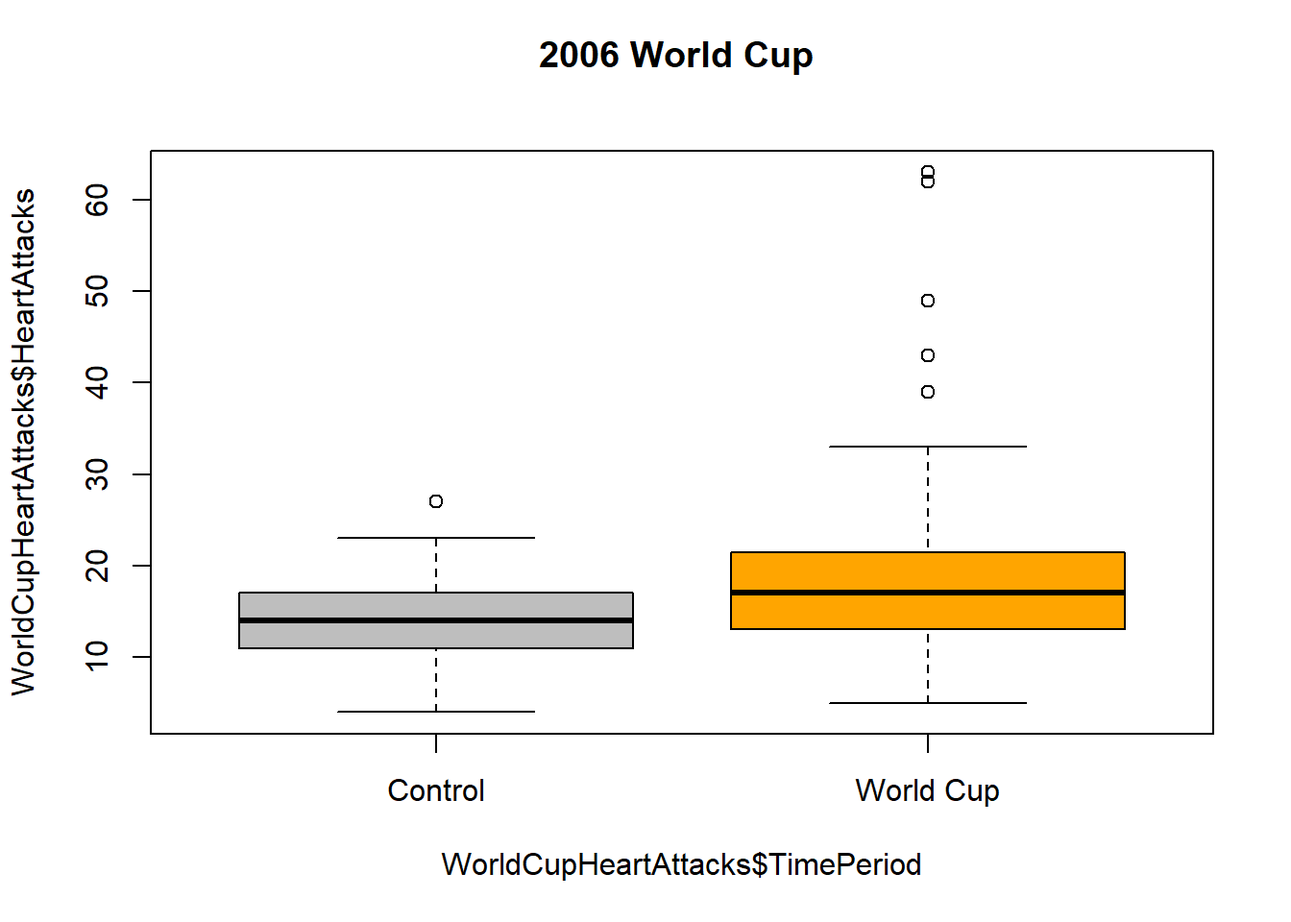
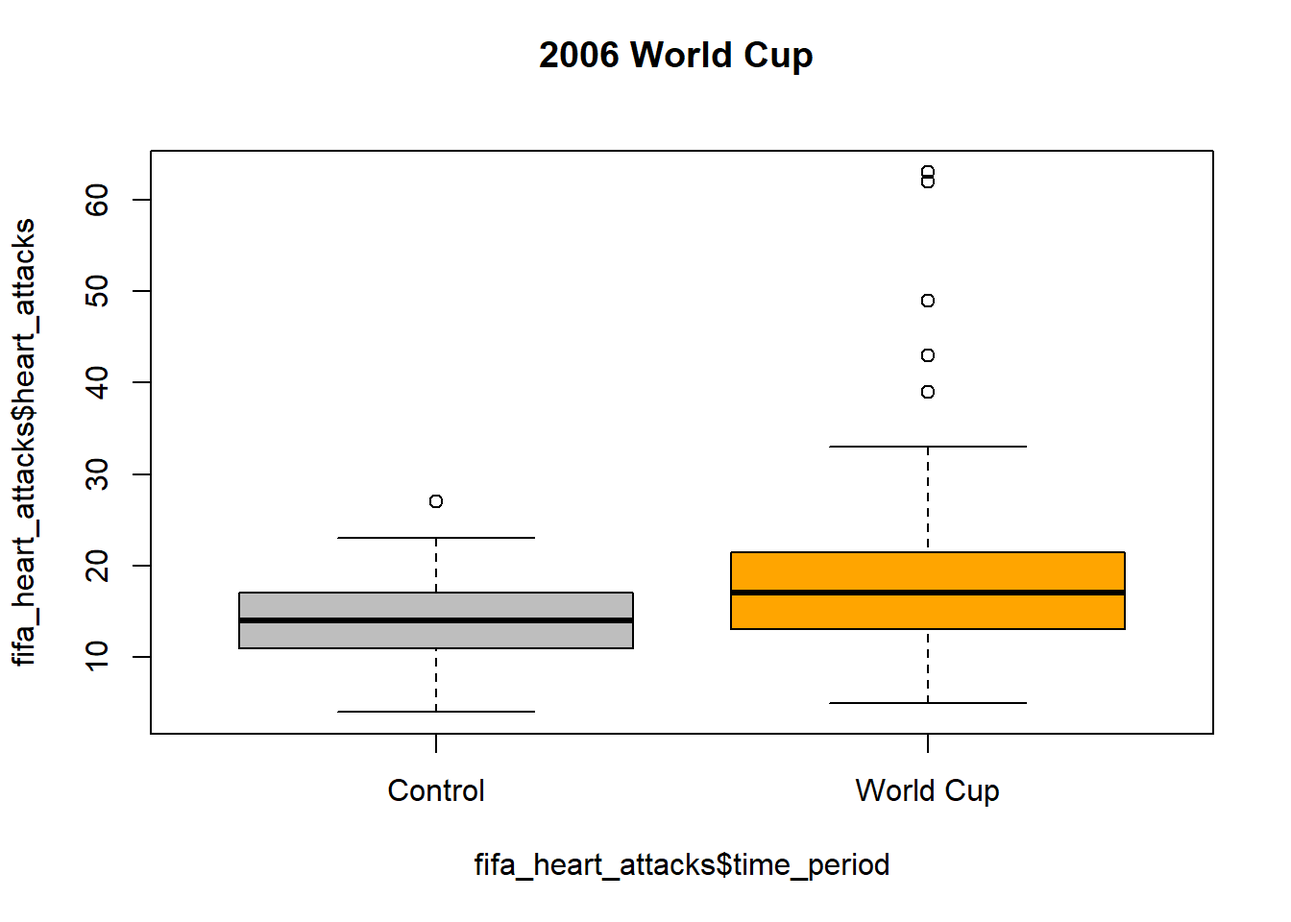
Revised Lesson 13

Changed region(s): [[0.3438, 0.9062, 0.7188, 0.9688], [0.0, 0.1875, 0.0312, 0.75]]

diff --git a/docs/Lesson13.html b/docs/Lesson13.html
@@ -387,7 +387,7 @@ $(document).ready(function () {
 <li><a href="#r-instructions-for-numerical-summaries-of-two-groups">R Instructions for Numerical Summaries of Two Groups</a></li>
 <li><a href="#r-instructions-for-side-by-side-boxplots">R Instructions for Side-by-Side Boxplots</a></li>
 <li><a href="#r-instructions-for-an-independent-samples-t-test">R Instructions for an Independent Samples t Test</a></li>
-<li><a href="#case-study-world-cup-heart-attacks">Case Study: World Cup Heart Attacks</a></li>
+<li><a href="#case-study-fifa-world-cup-heart-attacks">Case Study: FIFA World Cup Heart Attacks</a></li>
 </ul></li>
 <li><a href="#confidence-intervals">Confidence Intervals</a>
 <ul>
@@ -457,7 +457,7 @@ $(document).ready(function () {
 <p>Is there a difference in the amount of reading done by children with problematic behavior compared to other children?</p>
 <p><img src="Images/Step1.png"></p>
 <p><strong>Summarize the relevant background information</strong></p>
-<p>Researchers led by Arlene Butz published a study on the reading practices of children <!--<cite>Butz09</cite>-->. They wanted to know if there was a difference in the reading practices of children with developmental or behavioral problems (the DEV group or Group 1) compared to children in the general population who do not have developmental problems (the GEN group or Group 2.) One of the factors they considered was the number of nights each week that the children participated in reading in the home. Data representative of their results are given in the file <a href="./data/ReadingPractices.xlsx">ReadingPractices.xlsx</a>.</p>
+<p>Researchers led by Arlene Butz published a study on the reading practices of children <!--<cite>Butz09</cite>-->. They wanted to know if there was a difference in the reading practices of children with developmental or behavioral problems (the DEV group or Group 1) compared to children in the general population who do not have developmental problems (the GEN group or Group 2.) One of the factors they considered was the number of nights each week that the children participated in reading in the home. Data representative of their results are given in the file <a href="./data/reading.xlsx">reading.xlsx</a>.</p>
 <p><strong>State the null and alternative hypotheses and the level of significance</strong></p>
 <p>The null hypothesis is that there is no difference in the mean number of nights each week in which the two groups of children participate in reading in the home (the means of both GEN and DEV groups are equal). The alternative hypothesis is that there is a difference in the mean number of nights that the children in the two groups participate in reading in the home. If we let <span class="math inline">\(\mu_1\)</span> represent the mean number of nights each week that children in the GEN Group spent reading in the home, and <span class="math inline">\(\mu_2\)</span> represent mean nights children read in the home for the DEV Group, then these hypotheses are expressed mathematically as: <span class="math display">\[
 \begin{align}
@@ -468,7 +468,7 @@ H_a: &amp;~~  \mu_1  \neq \mu_2
 <p>We will use the <span class="math inline">\(\alpha = 0.05\)</span> level of significance.</p>
 <p><img src="Images/Step2.png"></p>
 <p><strong>Describe the data collection procedures</strong></p>
-<p>A group of children were enrolled in the study. Children who were identified to have developmental or behavioral problems were labeled as Group 1 (the DEV group). Children who did not display developmental or behavioral problems were labeled as Group 2 (the GEN group). A survey was administered to a parent of each of the children. One of the questions on the survey asked the number of nights that either their child read or that they read to their child during the week. This data is found in the file <a href="./data/ReadingPractices.xlsx">ReadingPractices.xlsx</a>.</p>
+<p>A group of children were enrolled in the study. Children who were identified to have developmental or behavioral problems were labeled as Group 1 (the DEV group). Children who did not display developmental or behavioral problems were labeled as Group 2 (the GEN group). A survey was administered to a parent of each of the children. One of the questions on the survey asked the number of nights that either their child read or that they read to their child during the week. This data is found in the file <a href="./data/reading.xlsx">reading.xlsx</a>.</p>
 <div class="QuestionsHeading">
 Answer the following questions:
 </div>
@@ -508,7 +508,7 @@ R Instructions
 <div class="Software">
 <p><strong>To compute numerical summaries for two groups at once:</strong></p>
 <ul>
-<li><p>First, read the data into RStudio: <a href="./data/ReadingPractices.xlsx">ReadingPractices.xlsx</a>. (Review of <a href="RHelp.html#reading-in-the-data">reading in data</a>.)</p></li>
+<li><p>First, read the data into RStudio: <a href="./data/reading.xlsx">reading.xlsx</a>. (Review of <a href="RHelp.html#reading-in-the-data">reading in data</a>.)</p></li>
 <li><p>Second, load the <code>mosaic</code> library in RStudio that makes calculating the numerical summaries for two groups really quick.</p></li>
 </ul>
 <pre class="r"><code>library(mosaic)</code></pre>
@@ -517,12 +517,12 @@ R Instructions
 <p>You’ll only ever need to “install” this package once. But you’ll need to run “library(mosaic)” every time you reopen RStudio and want to use the <code>mosaic</code> package. As long as you keep RStudio open, you won’t have to re-load the mosaic library.</p>
 </div>
 <p>Use the <code>favstats(...)</code> function and the tilde <code>~</code> (top-left key on your keyboard) to produce numerical summaries for two or more groups. When using the <code>~</code> you put the quantitative variable first, followed by the <code>~</code>, then the categorical variable second, like this:</p>
-<pre class="r"><code>favstats(ReadingPractices$Nights ~ ReadingPractices$Group)</code></pre>
-<pre><code>  ReadingPractices$Group min Q1 median Q3 max     mean       sd   n missing
-1                    DEV   0  2      4  6   7 4.102941 2.376857 204       0
-2                    GEN   0  1      4  6   7 3.683761 2.544939 117       0</code></pre>
+<pre class="r"><code>favstats(reading$nights ~ reading$group)</code></pre>
+<pre><code>  reading$group min Q1 median Q3 max     mean       sd   n missing
+1           DEV   0  2      4  6   7 4.102941 2.376857 204       0
+2           GEN   0  1      4  6   7 3.683761 2.544939 117       0</code></pre>
 <div class="note">
-<p>If you get the error message <span style="color:red;">Error in favstats(Nights ~ Group, data = ReadingPractices) : could not find function “favstats”</span> then you will need to run the code: <code>library(mosaic)</code> first, then try the <code>favstats(...)</code> code again.</p>
+<p>If you get the error message <span style="color:red;">Error in favstats(Nights ~ Group, data = reading) : could not find function “favstats”</span> then you will need to run the code: <code>library(mosaic)</code> first, then try the <code>favstats(...)</code> code again.</p>
 </div>
 <p><br></p>
 </div>
@@ -580,9 +580,9 @@ R Instructions
 </div>
 <div class="Software">
 <p><strong>To visualize the distributions of the two sample simultaneously:</strong></p>
-<p>Read the data into RStudio: <a href="./data/ReadingPractices.xlsx">ReadingPractices.xlsx</a>.</p>
+<p>Read the data into RStudio: <a href="./data/reading.xlsx">reading.xlsx</a>.</p>
 <p>Use the <code>boxplot(...)</code> function and the tilde <code>~</code> (top-left key on your keyboard) to produce a side-by-side boxplot. When using the <code>~</code> you put the quantitative variable first, followed by the <code>~</code>, then the categorical variable second, like this:</p>
-<pre class="r"><code>boxplot(ReadingPractices$Nights ~ ReadingPractices$Group)</code></pre>
+<pre class="r"><code>boxplot(reading$nights ~ reading$group)</code></pre>
 <p><img src="Lesson13_files/figure-html/unnamed-chunk-5-1.png" width="672" /></p>
 <p><br/></p>
 <p><strong>To Make a Fancier Graph</strong></p>
@@ -595,7 +595,7 @@ R Instructions
 <li>the <code>xlab="a nice x-axis label"</code> allows you to label the x-axis of your graph,</li>
 <li>the <code>names=c("label 1", "label 2")</code> statement can be used to give each box a label along the x-axis.</li>
 </ul>
-<pre class="r"><code>boxplot(ReadingPractices$Nights ~ ReadingPractices$Group,
+<pre class="r"><code>boxplot(reading$nights ~ reading$group,
         col=c(&quot;firebrick&quot;,&quot;skyblue&quot;), 
         main=&quot;Reading Practices of Children&quot;, 
         ylab=&quot;Number of Nights of Reading&quot;,
@@ -650,15 +650,15 @@ R Instructions
 <div class="Software">
 <p><strong>The following instructions will help you conduct a hypothesis test for two means with independent samples in R.</strong></p>
 <ul>
-<li>Import the data into RStudio: <a href="./data/ReadingPractices.xlsx">ReadingPractices.xlsx</a></li>
+<li>Import the data into RStudio: <a href="./data/reading.xlsx">reading.xlsx</a></li>
 <li>Take note of your null and alternative hypotheses, in this case <span class="math inline">\(H_0: \mu_1 = \mu_2\)</span> implies <span class="math inline">\(\mu_1 - \mu_2 = 0\)</span> and <span class="math inline">\(H_a: \mu_1 \neq \mu_2\)</span> implies <span class="math inline">\(\mu_1 - \mu_2 \neq 0\)</span>.</li>
 <li>Use the <code>t.test(...)</code> function along with the tilde <code>~</code> (top-left key on your keyboard) to test a quantitative variable that is “divided into two groups” with the <code>~</code> sign like this:</li>
 </ul>
-<pre class="r"><code>t.test(ReadingPractices$Nights ~ ReadingPractices$Group, mu=0, alternative=&quot;two.sided&quot;)</code></pre>
+<pre class="r"><code>t.test(reading$nights ~ reading$group, mu=0, alternative=&quot;two.sided&quot;)</code></pre>
 <pre><code>
     Welch Two Sample t-test
 
-data:  ReadingPractices$Nights by ReadingPractices$Group
+data:  reading$nights by reading$group
 t = 1.4546, df = 228.43, p-value = 0.1472
 alternative hypothesis: true difference in means between group DEV and group GEN is not equal to 0
 95 percent confidence interval:
@@ -757,8 +757,8 @@ $$
 -->
 <p><img src="Images/StepsAll.png"></p>
 </div>
-<div id="case-study-world-cup-heart-attacks" class="section level3">
-<h3>Case Study: World Cup Heart Attacks</h3>
+<div id="case-study-fifa-world-cup-heart-attacks" class="section level3">
+<h3>Case Study: FIFA World Cup Heart Attacks</h3>
 <p>Do intense sporting events increase the probability of a person having a heart attack? We will consider this question in the next example.</p>
 <p><img src="Images/Step1.png"></p>
 <p><img src="Images/Soccer-City-Stadium-at-capacity.jpg"></p>
@@ -776,7 +776,7 @@ H_a: &amp; ~~ \mu_1 &lt; \mu_2
 <p>We will use the <span class="math inline">\(\alpha = 0.01\)</span> level of significance. Remember, we are always free to choose our significance level, but since it controls the probability of a Type I Error occurring, we need to consider how problematic a Type I Error would be for our study. In this case, it isn’t terribly detrimental to commit a Type I Error (rejecting the null when the null was actually true), so we go with <span class="math inline">\(\alpha = 0.1\)</span>.</p>
 <p><img src="Images/Step2.png"></p>
 <p><strong>Describe the data collection procedures</strong></p>
-<p>The 2006 World Cup was held from June 9 to July 9, 2006. The number of patients suffering cardiovascular events (e.g. heart attacks) was obtained from medical records of patients in the Greater Munich (Germany) area during this time period. To provide a control group, counts of patients suffering cardiovascular events was recorded from May 1 to June 8 and July 10 to July 30, 2006, as well as May 1 to July 30 in 2003 and 2005. The year 2004 was avoided, due to the European Soccer Championships held in Portugal. These data were extracted from Figure 1 in the article by Wilbert-Lampen, <!--<cite>WilbertLampen08</cite>--> and are given in the file <a href="./data/WorldCupHeartAttacks.xlsx">WorldCupHeartAttacks.xlsx</a>.</p>
+<p>The 2006 World Cup was held from June 9 to July 9, 2006. The number of patients suffering cardiovascular events (e.g. heart attacks) was obtained from medical records of patients in the Greater Munich (Germany) area during this time period. To provide a control group, counts of patients suffering cardiovascular events was recorded from May 1 to June 8 and July 10 to July 30, 2006, as well as May 1 to July 30 in 2003 and 2005. The year 2004 was avoided, due to the European Soccer Championships held in Portugal. These data were extracted from Figure 1 in the article by Wilbert-Lampen, <!--<cite>WilbertLampen08</cite>--> and are given in the file <a href="./data/fifa_heart_attacks.xlsx">fifa_heart_attacks.xlsx</a>.</p>
 <p><img src="Images/Step3.png"></p>
 <div class="QuestionsHeading">
 Answer the following questions:
@@ -788,13 +788,13 @@ Answer the following questions:
 <a href="javascript:showhide('Q5')"><span style="font-size:8pt;">Show/Hide Solution</span></a>
 <div id="Q5" style="display:none;">
 <ul>
-<li>We need to find the the following: <span class="math inline">\(\bar x_1\)</span>, <span class="math inline">\(s_1\)</span>, <span class="math inline">\(n_1\)</span>, <span class="math inline">\(\bar x_2\)</span>, <span class="math inline">\(s_2\)</span>, and <span class="math inline">\(n_2\)</span>. So we read in the <a href="./data/WorldCupHeartAttacks.xlsx">WorldCupHeartAttacks.xlsx</a> data into RStudio, ensure <code>library(mosaic)</code> is loaded, and then use the <code>favstats(...)</code> function.</li>
+<li>We need to find the the following: <span class="math inline">\(\bar x_1\)</span>, <span class="math inline">\(s_1\)</span>, <span class="math inline">\(n_1\)</span>, <span class="math inline">\(\bar x_2\)</span>, <span class="math inline">\(s_2\)</span>, and <span class="math inline">\(n_2\)</span>. So we read in the <a href="./data/fifa_heart_attacks.xlsx">fifa_heart_attacks.xlsx</a> data into RStudio, ensure <code>library(mosaic)</code> is loaded, and then use the <code>favstats(...)</code> function.</li>
 </ul>
 <pre class="r"><code>library(mosaic)
-favstats(WorldCupHeartAttacks$HeartAttacks ~ WorldCupHeartAttacks$TimePeriod)</code></pre>
-<pre><code>  WorldCupHeartAttacks$TimePeriod min Q1 median   Q3 max     mean       sd   n
-1                         Control   4 11     14 17.0  27 14.04396 4.152912 182
-2                       World Cup   5 13     17 21.5  63 19.00000 9.809293  91
+favstats(fifa_heart_attacks$heart_attacks ~ fifa_heart_attacks$time_period)</code></pre>
+<pre><code>  fifa_heart_attacks$time_period min Q1 median   Q3 max     mean       sd   n
+1                        Control   4 11     14 17.0  27 14.04396 4.152912 182
+2                      World Cup   5 13     17 21.5  63 19.00000 9.809293  91
   missing
 1       0
 2       0</code></pre>
@@ -833,7 +833,7 @@ favstats(WorldCupHeartAttacks$HeartAttacks ~ WorldCupHeartAttacks$TimePeriod)</c
 <a href="javascript:showhide('Q6')"><span style="font-size:8pt;">Show/Hide Solution</span></a>
 <div id="Q6" style="display:none;">
 <p>Side-by-side boxplots are a great way to summarize the data.</p>
-<pre class="r"><code>boxplot(WorldCupHeartAttacks$HeartAttacks ~ WorldCupHeartAttacks$TimePeriod, col=c(&quot;gray&quot;, &quot;orange&quot;), main=&quot;2006 World Cup \n &quot;)</code></pre>
+<pre class="r"><code>boxplot(fifa_heart_attacks$heart_attacks ~ fifa_heart_attacks$time_period, col=c(&quot;gray&quot;, &quot;orange&quot;), main=&quot;2006 World Cup \n &quot;)</code></pre>
 <p><img src="Lesson13_files/figure-html/unnamed-chunk-10-1.png" width="672" /></p>
 </div>
 <p> </p>
@@ -861,11 +861,11 @@ Answer the following questions:
 </ol>
 <a href="javascript:showhide('Q8')"><span style="font-size:8pt;">Show/Hide Solution</span></a>
 <div id="Q8" style="display:none;">
-<pre class="r"><code>t.test(WorldCupHeartAttacks$HeartAttacks ~ WorldCupHeartAttacks$TimePeriod)</code></pre>
+<pre class="r"><code>t.test(fifa_heart_attacks$heart_attacks ~ fifa_heart_attacks$time_period)</code></pre>
 <pre><code>
     Welch Two Sample t-test
 
-data:  WorldCupHeartAttacks$HeartAttacks by WorldCupHeartAttacks$TimePeriod
+data:  fifa_heart_attacks$heart_attacks by fifa_heart_attacks$time_period
 t = -4.6172, df = 106.43, p-value = 1.093e-05
 alternative hypothesis: true difference in means between group Control and group World Cup is not equal to 0
 95 percent confidence interval:
@@ -968,14 +968,14 @@ Answer the following question:
 <p>Software can be used to compute the confidence interval for a difference of two means with independent samples.</p>
 <p><img src="Images/Step2.png"></p>
 <p><strong>Describe the data collection procedures</strong></p>
-<p>In the study by Arlene Butz, et.al., on the reading practices of children, the researchers wanted to determine if there was a difference in the mean number of nights children read in the two groups (DEV and GEN)<!--<cite>Butz09</cite>-->. A survey was given to the child’s caretaker (usually a parent). This survey included questions about the child’s development and behavior. The survey also asked the number of nights each week that the child participated in reading in the home. Data representative of their results are given in the file <a href="./data/ReadingPractices.xlsx">ReadingPractices.xlsx</a>.</p>
+<p>In the study by Arlene Butz, et.al., on the reading practices of children, the researchers wanted to determine if there was a difference in the mean number of nights children read in the two groups (DEV and GEN)<!--<cite>Butz09</cite>-->. A survey was given to the child’s caretaker (usually a parent). This survey included questions about the child’s development and behavior. The survey also asked the number of nights each week that the child participated in reading in the home. Data representative of their results are given in the file <a href="./data/reading.xlsx">reading.xlsx</a>.</p>
 <p><img src="Images/Step3.png"></p>
 <p><strong>Give the relevant summary statistics</strong></p>
 <p>Using R, we compute the following:</p>
-<pre class="r"><code>favstats(ReadingPractices$Nights ~ ReadingPractices$Group)</code></pre>
-<pre><code>  ReadingPractices$Group min Q1 median Q3 max     mean       sd   n missing
-1                    DEV   0  2      4  6   7 4.102941 2.376857 204       0
-2                    GEN   0  1      4  6   7 3.683761 2.544939 117       0</code></pre>
+<pre class="r"><code>favstats(reading$nights ~ reading$group)</code></pre>
+<pre><code>  reading$group min Q1 median Q3 max     mean       sd   n missing
+1           DEV   0  2      4  6   7 4.102941 2.376857 204       0
+2           GEN   0  1      4  6   7 3.683761 2.544939 117       0</code></pre>
 <table style="width:83%;">
 <caption><strong>Summary Statistics</strong></caption>
 <colgroup>
@@ -1009,7 +1009,7 @@ Answer the following question:
 </tbody>
 </table>
 <p><strong>Make an appropriate graph to illustrate the data</strong></p>
-<pre class="r"><code>boxplot(ReadingPractices$Nights ~ ReadingPractices$Group,
+<pre class="r"><code>boxplot(reading$nights ~ reading$group,
         main=&quot;Reading Practices of Children&quot;,
         col=c(&quot;firebrick&quot;,&quot;skyblue&quot;), 
         ylab=&quot;Nights Spent Reading&quot;, 
@@ -1030,14 +1030,14 @@ R Instructions
 <div class="Software">
 <p><strong>To compute a 95% confidence interval for the difference of two means from two independent samples:</strong></p>
 <ul>
-<li>Read in the data: <a href="./data/ReadingPractices.xlsx">ReadingPractices.xlsx</a></li>
+<li>Read in the data: <a href="./data/reading.xlsx">reading.xlsx</a></li>
 <li>Perform an independent samples t test using the <code>t.test(..., conf.level=0.95)</code> function.</li>
 </ul>
-<pre class="r"><code>t.test(ReadingPractices$Nights ~ ReadingPractices$Group, conf.level=0.95)</code></pre>
+<pre class="r"><code>t.test(reading$nights ~ reading$group, conf.level=0.95)</code></pre>
 <pre><code>
     Welch Two Sample t-test
 
-data:  ReadingPractices$Nights by ReadingPractices$Group
+data:  reading$nights by reading$group
 t = 1.4546, df = 228.43, p-value = 0.1472
 alternative hypothesis: true difference in means between group DEV and group GEN is not equal to 0
 95 percent confidence interval:
@@ -1056,12 +1056,12 @@ mean in group DEV mean in group GEN
 <div id="reversing-the-order-of-groups" class="section level3">
 <h3>Reversing the Order of Groups</h3>
 <p>When creating the confidence interval in R, it is important to remember that R splits the data into two groups alphabetically. So the “DEV” group is the first group and the “GEN” group is the second group. If this order were reversed, it would result in a confidence interval with the opposite sign. If we assign the GEN group as the first group and the DEV group as the second, we would get a confidence interval of <span class="math inline">\((-0.987, 0.149)\)</span>. We could do this with the code:</p>
-<pre class="r"><code>ReadingPractices$GroupReversed &lt;- factor(ReadingPractices$Group, levels=c(&quot;GEN&quot;, &quot;DEV&quot;), ordered=TRUE)
-t.test(ReadingPractices$Nights ~ ReadingPractices$GroupReversed)</code></pre>
+<pre class="r"><code>reading$groupReversed &lt;- factor(reading$group, levels=c(&quot;GEN&quot;, &quot;DEV&quot;), ordered=TRUE)
+t.test(reading$nights ~ reading$groupReversed)</code></pre>
 <pre><code>
     Welch Two Sample t-test
 
-data:  ReadingPractices$Nights by ReadingPractices$GroupReversed
+data:  reading$nights by reading$groupReversed
 t = -1.4546, df = 228.43, p-value = 0.1472
 alternative hypothesis: true difference in means between group GEN and group DEV is not equal to 0
 95 percent confidence interval:
@@ -1082,7 +1082,7 @@ mean in group GEN mean in group DEV
 <p><img src="Images/Step2.png"></p>
 <p><strong>Describe the data collection procedures</strong></p>
 <p>A study was conducted in the United Kingdom to determine if there is a difference in the effectiveness of community-based rehabilitation program compared to hospital-based rehabilitation <!--<cite>Waterhouse10</cite>-->. Patients suffering from COPD were randomly assigned to either the community or hospital group. Twice a week for six weeks, they participated in two-hour educational and exercise sessions. Patients were also encouraged to exercise between sessions.</p>
-<p>The effectiveness of the program was measured based on the total distance patients could walk at one time at a particular pace. This is called the endurance shuttle walking test (ESWT). This was measured at the beginning of the study and again at the end of the six week rehabilitation period. Data representing the improvement of the patients in each group is given in the file <a href="./data/COPD-Rehab.xlsx">COPD-Rehab</a>. The data represent the increased distance (in meters) that each patient could walk. Negative values indicate that the patient was not able to walk as far at the end of the rehabilitation treatment as at the beginning.</p>
+<p>The effectiveness of the program was measured based on the total distance patients could walk at one time at a particular pace. This is called the endurance shuttle walking test (ESWT). This was measured at the beginning of the study and again at the end of the six week rehabilitation period. Data representing the improvement of the patients in each group is given in the file <a href="./data/copd_rehab.xlsx">copd_rehab.xlsx</a>. The data represent the increased distance (in meters) that each patient could walk. Negative values indicate that the patient was not able to walk as far at the end of the rehabilitation treatment as at the beginning.</p>
 <p>Because hospital-based rehabilitation tends to be more expensive, the researchers wanted to assess if there is a significant difference in the patients’ improvement under the two programs. If not, then it makes sense to refer patients to the less expensive treatment option. The purpose of this study was to determine if pulmonary rehabilitation in a community setting is as effective as rehabilitation in a hospital setting.</p>
 <p><img src="Images/Step3.png"></p>
 </div>
@@ -1094,28 +1094,25 @@ R Instructions
 <div class="Software">
 <p><strong>When the data for each group is in a separate column</strong> numerical summaries are calculated one column at a time.</p>
 <ul>
-<li>First, read the data into RStudio: <a href="./data/COPD-Rehab.xlsx">COPD-Rehab</a></li>
-</ul>
-<pre class="r"><code>COPD_Rehab &lt;- read_excel(&quot;./data/COPD-Rehab.xlsx&quot;)</code></pre>
-<ul>
-<li>Second, load the <code>mosaic</code> library in RStudio that makes calculating the numerical summaries really quick, even for just one set of data.</li>
+<li><p>First, read the data into RStudio: <a href="./data/copd_rehab.xlsx">copd_rehab.xlsx</a></p></li>
+<li><p>Second, load the <code>mosaic</code> library in RStudio that makes calculating the numerical summaries really quick, even for just one set of data.</p></li>
 </ul>
 <pre class="r"><code>library(mosaic)</code></pre>
 <div class="note">
 <p>If you get the error message <span style="color:red;">Error in library(mosaic) : there is no package called ‘mosaic’</span> then you will need to install the <code>mosiac</code> package using the code: <code>install.packages("mosaic")</code></p>
 </div>
 <p>Use the <code>favstats(...)</code> function to produce numerical summaries for each group separately.</p>
-<pre class="r"><code>favstats(COPD_Rehab$Community)</code></pre>
+<pre class="r"><code>favstats(copd_rehab$community)</code></pre>
 <pre><code>  min    Q1 median     Q3  max     mean       sd  n missing
  -402 -40.5  169.5 444.25 1000 216.1184 339.9011 76       9</code></pre>
-<pre class="r"><code>favstats(COPD_Rehab$Hospital)</code></pre>
+<pre class="r"><code>favstats(copd_rehab$hospital)</code></pre>
 <pre><code>  min Q1 median  Q3  max     mean       sd  n missing
  -540 -1    292 525 1031 283.3765 359.9367 85       0</code></pre>
 <div class="note">
 <p>If you get the error message <span style="color:red;">Error in favstats(…) : could not find function “favstats”</span> then you will need to run the code: <code>library(mosaic)</code> first, then try the <code>favstats(...)</code> code again.</p>
 </div>
 <p><strong>Boxplots can be created by using the <code>,</code> instead of the <code>~</code>:</strong></p>
-<pre class="r"><code>boxplot(COPD_Rehab$Community, COPD_Rehab$Hospital,
+<pre class="r"><code>boxplot(copd_rehab$community, copd_rehab$hospital,
         names=c(&quot;Community&quot;, &quot;Hospital&quot;), 
         main=&quot;Chronic Obstructive Pulmonary Disease&quot;, 
         ylab=&quot;Increased Distance Patients Could Walk (meters)&quot;,
@@ -1167,7 +1164,11 @@ Answer the following questions:
 <a href="javascript:showhide('Q16')"><span style="font-size:8pt;">Show/Hide Solution</span></a>
 <div id="Q16" style="display:none;">
 <p><br></p>
-<pre class="r"><code>boxplot(COPD_Rehab$Community, COPD_Rehab$Hospital, names=c(&quot;Community&quot;, &quot;Hospital&quot;), main=&quot;Chronic Obstructive Pulmonary Disease&quot;, ylab=&quot;Increased Distance Patients Could Walk (meters)&quot;, col=c(&quot;steelblue&quot;,&quot;steelblue3&quot;))</code></pre>
+<pre class="r"><code>boxplot(copd_rehab$community, copd_rehab$hospital, 
+        names=c(&quot;Community&quot;, &quot;Hospital&quot;), 
+        main=&quot;Chronic Obstructive Pulmonary Disease&quot;, 
+        ylab=&quot;Increased Distance Patients Could Walk (meters)&quot;, 
+        col=c(&quot;steelblue&quot;,&quot;steelblue3&quot;))</code></pre>
 <p><img src="Lesson13_files/figure-html/unnamed-chunk-20-1.png" width="672" /></p>
 <p><br></p>
 <ul>
@@ -1197,17 +1198,14 @@ R Instructions
 <div class="Software">
 <p><strong>When the data for each group is in a separate column</strong> the independent samples t test is performed using the comma <code>,</code> instead of the tilde <code>~</code>.</p>
 <ul>
-<li>First, read the data into RStudio: <a href="./data/COPD-Rehab.xlsx">COPD-Rehab</a></li>
+<li><p>First, read the data into RStudio: <a href="./data/copd_rehab.xlsx">copd_rehab.xlsx</a></p></li>
+<li><p>Second, run the <code>t.test(...)</code> with the first column of data, followed by a comma <code>,</code>, and then the second column of data.</p></li>
 </ul>
-<pre class="r"><code>COPD_Rehab &lt;- read_excel(&quot;./data/COPD-Rehab.xlsx&quot;)</code></pre>
-<ul>
-<li>Second, run the <code>t.test(...)</code> with the first column of data, followed by a comma <code>,</code>, and then the second column of data.</li>
-</ul>
-<pre class="r"><code>t.test(COPD_Rehab$Community, COPD_Rehab$Hospital, conf.level=0.95)</code></pre>
+<pre class="r"><code>t.test(copd_rehab$community, copd_rehab$hospital, conf.level=0.95)</code></pre>
 <pre><code>
     Welch Two Sample t-test
 
-data:  COPD_Rehab$Community and COPD_Rehab$Hospital
+data:  copd_rehab$community and copd_rehab$hospital
 t = -1.219, df = 158.51, p-value = 0.2247
 alternative hypothesis: true difference in means is not equal to 0
 95 percent confidence interval:
@@ -1292,8 +1290,8 @@ If we had subtracted in the order <strong>Hospital</strong> - <strong>Community<
 <a href="javascript:showhide('Q22')"><span style="font-size:8pt;">Show/Hide Solution</span></a>
 <div id="Q22" style="display:none;">
 <ul>
-<li><p>If we subtract: <span class="math inline">\(Community - Hospital\)</span>, we get: <span class="math inline">\((-158.5,~24.0)\)</span></p></li>
-<li><p>If we subtract: <span class="math inline">\(Hospital - Community\)</span>, we get: <span class="math inline">\((-24.0,~158.5)\)</span></p></li>
+<li><p>If we subtract: <span class="math inline">\(community - Hospital\)</span>, we get: <span class="math inline">\((-158.5,~24.0)\)</span></p></li>
+<li><p>If we subtract: <span class="math inline">\(hospital - Community\)</span>, we get: <span class="math inline">\((-24.0,~158.5)\)</span></p></li>
 </ul>
 </div>
 <p><br></p>
